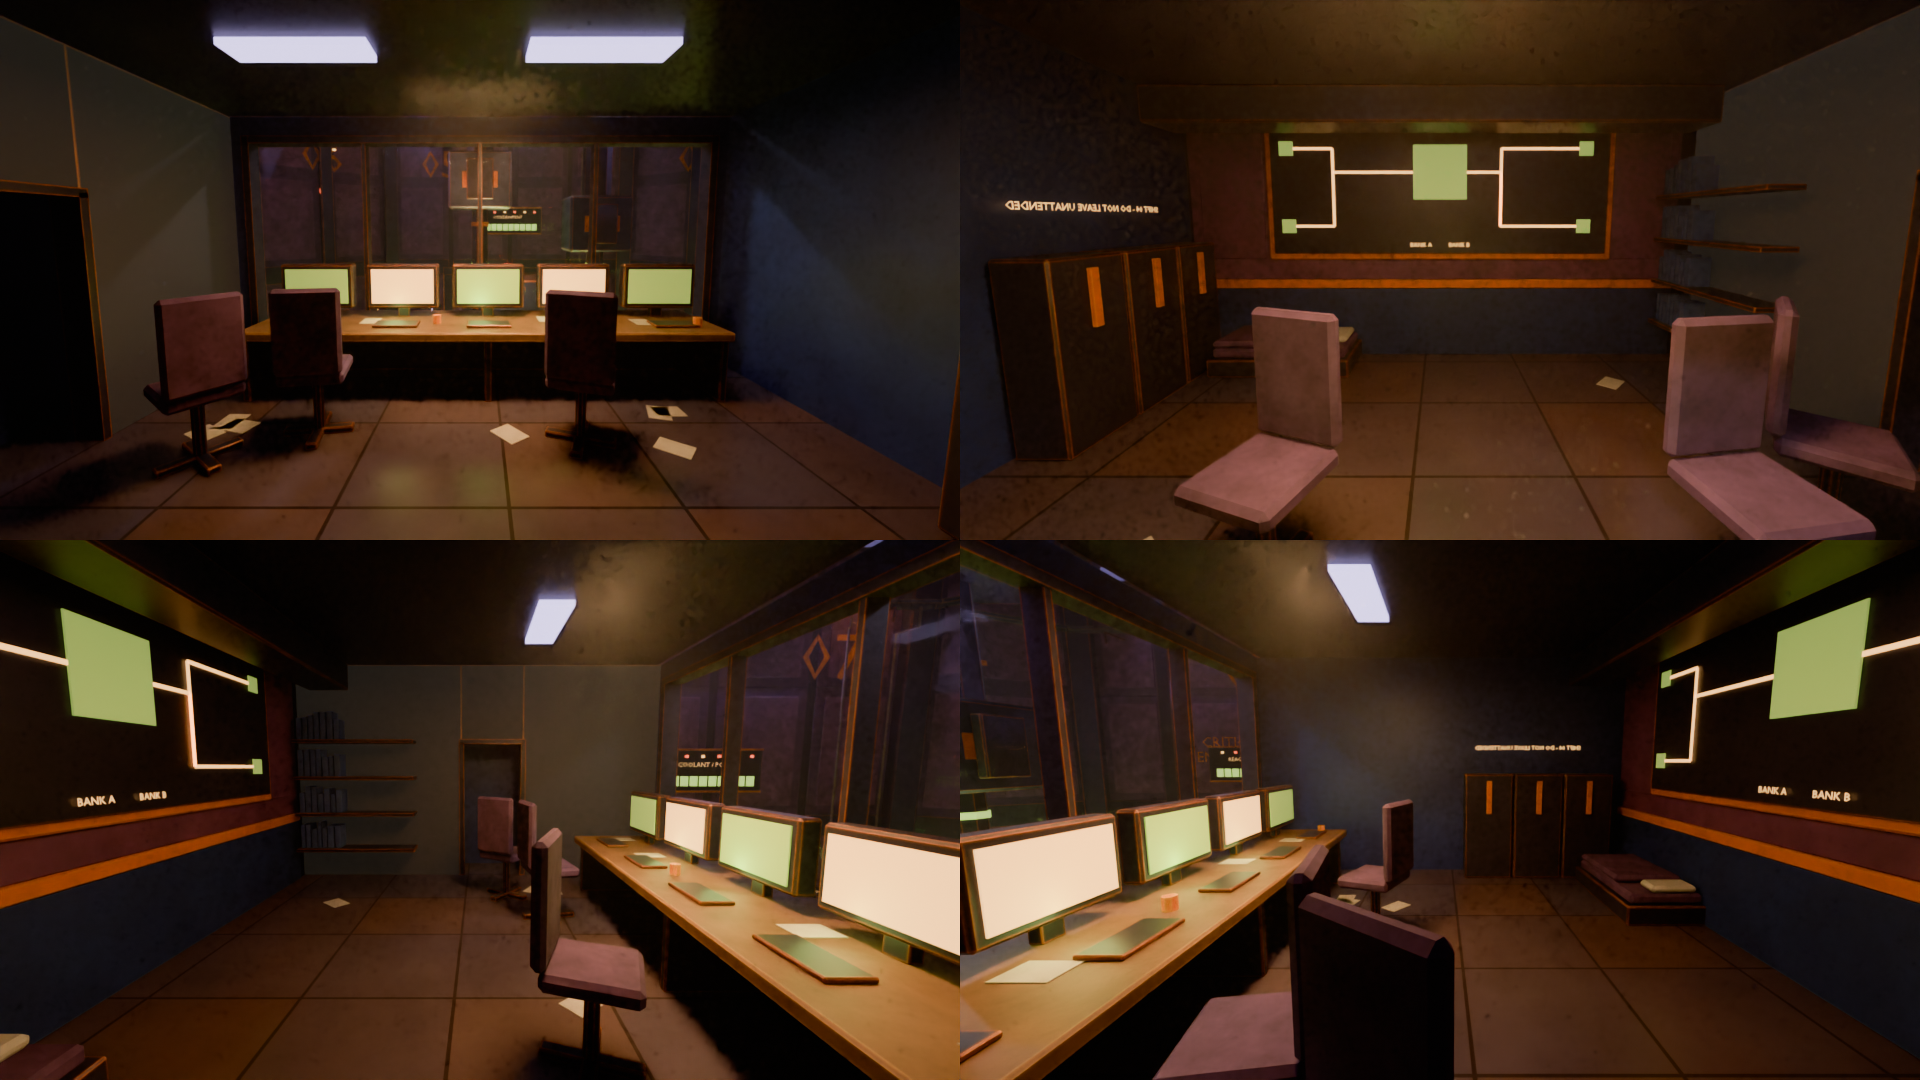
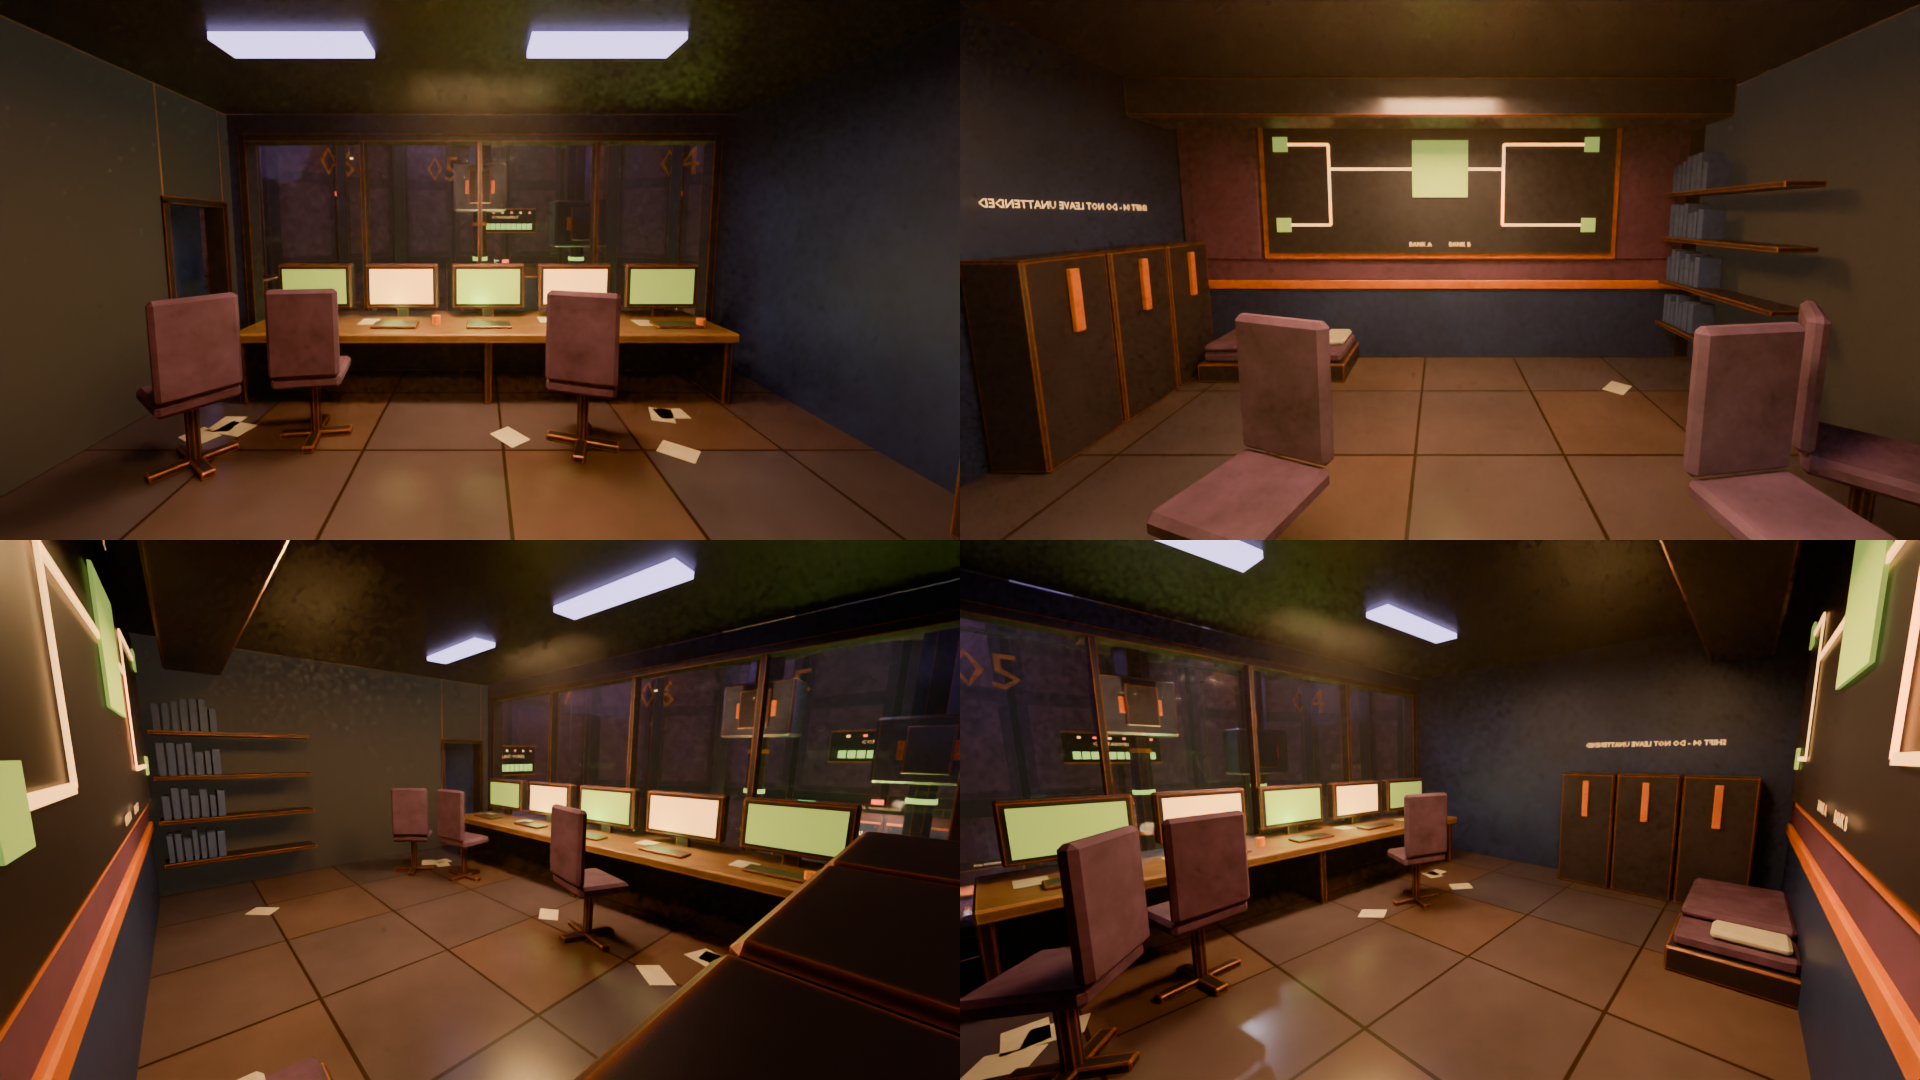
Reactor control room: extend the back wall instead of the front
Replaces the forward extension. Window, desks and door stay put; the back wall moves back 1.97 m through an opening cut in the hall south wall. Sight lines unchanged, clearance 0 clashes, piping 0 dangling. GLB not regenerated.

Claude-Session: https://claude.ai/code/session_01MZn6W3mktoSNAd4EhQyGwJ

diff --git a/sections/reactor-room/production/overhaul-R1/scripts/cr2.py b/sections/reactor-room/production/overhaul-R1/scripts/cr2.py
@@ -1,0 +1,91 @@
+"""Control room: increase window-to-back-wall depth by 50% (3.94 m -> 5.91 m) by moving the BACK wall back 1.97 m,
+through an opening cut in the hall's south wall.  The window, desk group, west door and elevator landing do not move.
+usage: python cr2.py -- <src.blend> <dst.blend>
+Steps
+ 1. cut an opening in the hall south wall (slab, bands, insets, pilasters) behind the control room: x -5.0..2.2, z 5.16..9.0
+ 2. back group (back wall, back furniture, east storage run, cot, shelves, back lamps/readouts/screens) moves -Y as rigid pieces
+ 3. long structure (floor, soffit, roof, side walls, long beams) is stretched: vertices behind the split move -Y
+ 4. one extra ceiling light for the new rear area
+"""
+import bpy,bmesh,sys
+from mathutils import Vector
+A=sys.argv[sys.argv.index("--")+1:]; SRC,DST=A[0],A[1]
+D=1.97; S=-8.85
+OPEN=(-5.0,2.2,5.16,9.0)                        # x0,x1,z0,z1  (all y: the opening goes through the wall)
+bpy.ops.wm.open_mainfile(filepath=SRC)
+def ext(o):
+    p=[o.matrix_world@Vector(v) for v in o.bound_box]
+    return (min(q.x for q in p),max(q.x for q in p),min(q.y for q in p),max(q.y for q in p),min(q.z for q in p),max(q.z for q in p))
+def separate(objs):
+    for o in objs:
+        bpy.ops.object.select_all(action='DESELECT'); bpy.context.view_layer.objects.active=o; o.select_set(True)
+        bpy.ops.object.mode_set(mode='EDIT'); bpy.ops.mesh.select_all(action='SELECT'); bpy.ops.mesh.separate(type='LOOSE'); bpy.ops.object.mode_set(mode='OBJECT')
+# ---------- 1. wall opening
+arch=[o for o in bpy.data.collections["22 R2 ARCHITECTURE"].objects if o.type=="MESH"]
+def near_wall(e): return e[3]<-10.2 and e[2]>-11.3 and e[1]>OPEN[0] and e[0]<OPEN[1] and e[5]>OPEN[2] and e[4]<OPEN[3]
+cand=[o for o in arch if near_wall(ext(o))]
+separate([o for o in cand if o.name.startswith(("MERGED","R2 w0"))])
+def boxes_minus(b):
+    x0,x1,y0,y1,z0,z1=b; ox0,ox1,oz0,oz1=OPEN; out=[]
+    if x0<ox0: out.append((x0,min(x1,ox0),y0,y1,z0,z1))
+    if x1>ox1: out.append((max(x0,ox1),x1,y0,y1,z0,z1))
+    mx0,mx1=max(x0,ox0),min(x1,ox1)
+    if mx1>mx0:
+        if z0<oz0: out.append((mx0,mx1,y0,y1,z0,min(z1,oz0)))
+        if z1>oz1: out.append((mx0,mx1,y0,y1,max(z0,oz1),z1))
+    return [q for q in out if q[1]-q[0]>1e-4 and q[5]-q[4]>1e-4]
+cut=deleted=0
+for o in list(bpy.data.collections["22 R2 ARCHITECTURE"].objects):
+    if o.type!="MESH": continue
+    e=ext(o)
+    if not near_wall(e): continue
+    if (e[1]-e[0])>13 or o.parent: continue                       # skip whole-room merged meshes (corners etc.)
+    pieces=boxes_minus(e)
+    if len(pieces)==1 and pieces[0]==tuple(e): continue
+    if not pieces: bpy.data.objects.remove(o,do_unlink=True); deleted+=1; continue
+    mw=o.matrix_world; inv=mw.inverted(); bm=bmesh.new()
+    for (x0,x1,y0,y1,z0,z1) in pieces:
+        r=bmesh.ops.create_cube(bm,size=1.0)
+        for v in r['verts']:
+            w=Vector((x0+(v.co.x+.5)*(x1-x0),y0+(v.co.y+.5)*(y1-y0),z0+(v.co.z+.5)*(z1-z0))); v.co=inv@w
+    bm.to_mesh(o.data); bm.free(); o.data.update(); cut+=1
+print("CR2 wall opening: pieces re-cut",cut,"removed",deleted)
+# ---------- 2/3. back extension
+cols=[bpy.data.collections["20 CONTROL MEZZANINE"],bpy.data.collections["26 R2 CONTROL ROOM"]]
+separate([o for c in cols for o in c.objects if o.type=="MESH" and o.name.startswith("MERGED")])
+def classify(o,e):
+    cx=(e[0]+e[1])/2; cy=(e[2]+e[3])/2; ylen=e[3]-e[2]
+    if cx<=-4.75 and not (o.name.startswith("MERGED 20 CONTROL M CF gunmetal") and ylen>2.5): return "stay"      # elevator landing, rails, door frames (west wall A island is long -> stretched)
+    if ylen>2.5: return "stretch"
+    if cx>=1.4 and e[2]>=-9.75 and e[3]<=-7.3 and (e[5]-e[4])<3: return "move"                                    # east storage run travels with the back wall
+    return "move" if cy<S else "stay"
+def stretch_back(o):
+    mw=o.matrix_world; inv=mw.inverted()
+    for v in o.data.vertices:
+        w=mw@v.co
+        if w.y<S: w.y-=D; v.co=inv@w
+    o.data.update()
+st={"stay":0,"move":0,"stretch":0}
+for c in cols:
+    for o in list(c.objects):
+        if o.type not in("MESH","CURVE","FONT") or o.name.startswith(("East wall patch","MZ landing")): continue
+        r=classify(o,ext(o))
+        if r=="move":
+            if o.parent: raise SystemExit("parented object: "+o.name)
+            o.location.y-=D
+        elif r=="stretch":
+            if o.type!="MESH": raise SystemExit("cannot stretch non-mesh: "+o.name)
+            stretch_back(o)
+        st[r]+=1
+moved=0
+for l in bpy.data.objects:
+    if l.type=="LIGHT":
+        p=l.matrix_world.translation
+        if -4.8<=p.x<=2.2 and 5.0<=p.z<=9.6 and -10.6<=p.y<S: l.location.y-=D; moved+=1
+print("CR2 control room:",st,"lights moved",moved)
+# ---------- 4. light for the new rear area (copy of the existing desk lamp, placed over the extension)
+src=bpy.data.objects.get("LP control lamp")
+if src:
+    n=src.copy(); n.data=src.data.copy(); n.name="LP control lamp rear"; n.location=(-1.4,-10.6,8.55); src.users_collection[0].objects.link(n)
+bpy.context.view_layer.update()
+bpy.ops.wm.save_as_mainfile(filepath=DST)

diff --git a/sections/reactor-room/production/overhaul-R1/scripts/cr2_chk.py b/sections/reactor-room/production/overhaul-R1/scripts/cr2_chk.py
@@ -1,0 +1,17 @@
+import bpy,sys
+from mathutils import Vector
+bpy.ops.wm.open_mainfile(filepath=sys.argv[sys.argv.index("--")+1]); sc=bpy.context.scene
+for o in sc.objects:
+    if o.name.startswith("LP haze"): o.hide_viewport=True
+bpy.context.view_layer.update(); dg=bpy.context.evaluated_depsgraph_get()
+def ray(o,d):
+    h,l,n,i,ob,m=sc.ray_cast(dg,Vector(o),Vector(d)); return (round(l.y,2),ob.name[:40]) if h else None
+def e(o):
+    p=[o.matrix_world@Vector(v) for v in o.bound_box]; return min(q.y for q in p),max(q.y for q in p)
+g=bpy.data.objects["MZ window glass"]; b=[o for o in bpy.data.objects if o.name.startswith("R2 control cr back wall")][0]
+print("DEPTH glass y=%.2f  back wall inner face y=%.2f  depth=%.2f m (was 3.94)"%(e(g)[1],e(b)[1],e(g)[1]-e(b)[1]))
+print("RAYS toward -Y from inside the room (first hit y):")
+for x in (-4.0,-2.0,-1.4,0.0,1.5):
+    for z in (6.0,7.5,8.5): print("  x=%.1f z=%.1f ->"%(x,z),ray((x,-8.0,z),(0,-1,0)))
+print("hall wall seen from the hall side above the room (x=-1.4, z=9.5 should still hit the wall at y=-10.8):",ray((-1.4,-8.0,9.5),(0,-1,0)))
+print("hall wall next to the room (x=-5.6, z=7):",ray((-5.6,-8.0,7.0),(0,-1,0)))

diff --git a/sections/reactor-room/production/overhaul-R1/scripts/cr4b.py b/sections/reactor-room/production/overhaul-R1/scripts/cr4b.py
@@ -3,8 +3,8 @@ from cam import shoot
 S=sys.argv[sys.argv.index("--")+1]; f=sys.argv[sys.argv.index("--")+2]; tag=sys.argv[sys.argv.index("--")+3]
 bpy.ops.wm.open_mainfile(filepath=S+"/"+f); sc=bpy.context.scene; sc.render.engine='CYCLES'; sc.cycles.use_denoising=True
 bpy.data.objects["REACTOR_STATE"]["stability"]=0.85; sc.frame_set(1); bpy.context.view_layer.update()
-V=[("north_toward_window",(-1.4,-9.75,7.3),(-1.4,-4.0,6.7),15),
-   ("south_toward_back_wall",(-1.4,-4.45,7.3),(-1.4,-9.9,6.6),15),
-   ("east_toward_door",(1.75,-7.0,7.2),(-4.7,-7.0,6.5),15),
-   ("west_toward_east_wall",(-4.5,-7.0,7.2),(2.0,-7.0,6.4),15)]
+V=[("back_wall_toward_window",(-1.4,-11.65,7.3),(-1.4,-6.0,6.7),15),
+   ("window_toward_back_wall",(-1.4,-6.6,7.3),(-1.4,-11.9,6.6),15),
+   ("back_east_corner_toward_door_side",(1.7,-11.5,7.3),(-4.2,-6.8,6.2),14),
+   ("back_west_corner_toward_east_side",(-4.5,-11.5,7.3),(1.8,-6.8,6.2),14)]
 for n,c,t,l in V: shoot(n,c,t,f"{S}/{tag}_{n}.png",lens=l,res=(960,540),samples=24)

diff --git a/sections/reactor-room/production/overhaul-R1/scripts/grid4b.py b/sections/reactor-room/production/overhaul-R1/scripts/grid4b.py
@@ -1,0 +1,11 @@
+import bpy,numpy as np,sys
+S=sys.argv[sys.argv.index("--")+1]
+names=["back_wall_toward_window","window_toward_back_wall","back_east_corner_toward_door_side","back_west_corner_toward_east_side"]
+im=[bpy.data.images.load(f"{S}/g5_{n}.png") for n in names]
+w,h=im[0].size
+a=[np.array(i.pixels[:]).reshape(h,w,4) for i in im]
+# pixel arrays are bottom-up; row 0 = bottom. Top row of grid = first two images.
+top=np.concatenate([a[0],a[1]],axis=1); bot=np.concatenate([a[2],a[3]],axis=1)
+g=np.concatenate([bot,top],axis=0)
+out=bpy.data.images.new("grid",w*2,h*2,alpha=False); out.pixels=g.flatten().tolist(); out.filepath_raw=f"{S}/control_room_4way_v2.png"; out.file_format='PNG'; out.save()
+print("saved grid",w*2,h*2)

diff --git a/sections/reactor-room/production/overhaul-R1/README.md b/sections/reactor-room/production/overhaul-R1/README.md
@@ -163,10 +163,10 @@ Built last, from the `PORT_*` empties. 26 runs, 76 objects, plus a perimeter cab
 - `scripts/t2b.py` no longer swallows glTF export errors: a failed export raises (non-zero exit) and `ok` is only printed after the GLB exists.
 - `verify_piping.py` tolerances were re-synced with the final layout (trench junction box and pool diffuser positions). The previous checked-in copy predated those layout changes and reported 2 false dangling runs on the shipped scene.
 
-## Control room depth +50% (`scripts/cr1.py`)
+## Control room depth +50% (`scripts/cr2.py`)
 
-The window-to-back-wall depth grew from 3.94 m to 5.92 m (glass at y -4.02, back wall inner face at y -9.94). The back wall cannot move (about 0.5 m to the hall wall), so the front assembly moved 1.97 m toward the hall: window glass and frames, desk, monitors, chairs, ceiling lamps and the five room lights move as rigid pieces; floor, soffit, roof, side walls and long beams stretch; the back-wall furniture, west door, east storage run, elevator landing and rails stay. The middle front post and its base plate were slid 0.8 m in x off the pool-inlet trench pipe.
+The window-to-back-wall depth grew from 3.94 m to 5.92 m (glass at y -5.99, back wall inner face at y -11.91). The **back wall** moved back 1.97 m; the window, desks, chairs, west door, elevator landing and rails did not move. The hall's south wall is only about 0.5 m behind the old back wall, so an opening (x -5.0..2.2, z 5.16..9.0) was cut through the wall slab, panel bands, insets and pilasters, and the room's floor, soffit, roof, side walls and long beams were stretched out through it. The back wall, back furniture, shelves, east storage run, cot and back lamps, readouts and screens move as rigid pieces. One extra ceiling light covers the new rear area.
 
-Verified on the modified scene: `clearance.py` 0 clashes, `verify_piping.py` 26 runs / 0 dangling / 0 unconnected ports, `cr_col.py` (new front strip) no hall equipment intersects it, 0 stair objects.
+The new rear volume sits outside the octagon shell (to about y -12.1, x -5.0..2.2). In the assembled map the reactor room is placed at (14.2, 46.5) rotated 180 degrees, so this bay lies at about x 12..19, y 57.3..58.7; `LAYOUT_A12.json` lists no placement or reserved volume there, but the cooling-plant footprint (placed at (-2.5, 63.2)) was not measured.
 
-Trade-off, measured with `vs2.py` (eye positions moved with the window): the window is now over the near edge of the pool, so from the desk seats (0.9 m behind the glass) pool water drops from 52-61% to 16-22% visible, bank A is hidden from the left and right seats, and bank B falls to 50%. Standing at the glass, both banks are 75% visible and the pool 47%. The engine export (`engine/reactor_room_R1.glb`) has not been regenerated for this change.
+Verified on the modified scene: sight lines unchanged from before (`verify_scene.py`: bank A and B 75% from the desk positions, pool water 52-61%), `clearance.py` 0 clashes, `verify_piping.py` 26 runs / 0 dangling / 0 unconnected ports, rays from inside the room pass through the opening to the new back wall, the hall wall above the room is intact (`cr2_chk.py`). The engine export (`engine/reactor_room_R1.glb`) has not been regenerated for this change.
